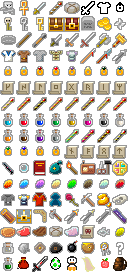
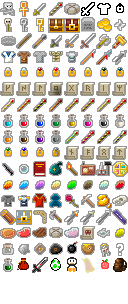
Mehr Zeilen zu items.png hinzugrfügt

diff --git a/src/com/jpl/pdmod/windows/WndKevin.java b/src/com/jpl/pdmod/windows/WndKevin.java
@@ -43,4 +43,13 @@ public class WndKevin extends WndQuest {
             Kevin.Quest.complete();
         }
     }
+
+    @Override
+    public void destroy() {
+        if (Dungeon.hero.belongings.getItem(LifeUmhang.class) == null){
+            new LifeUmhang().doDrop(Dungeon.hero);
+        }
+
+        super.destroy();
+    }
 }
